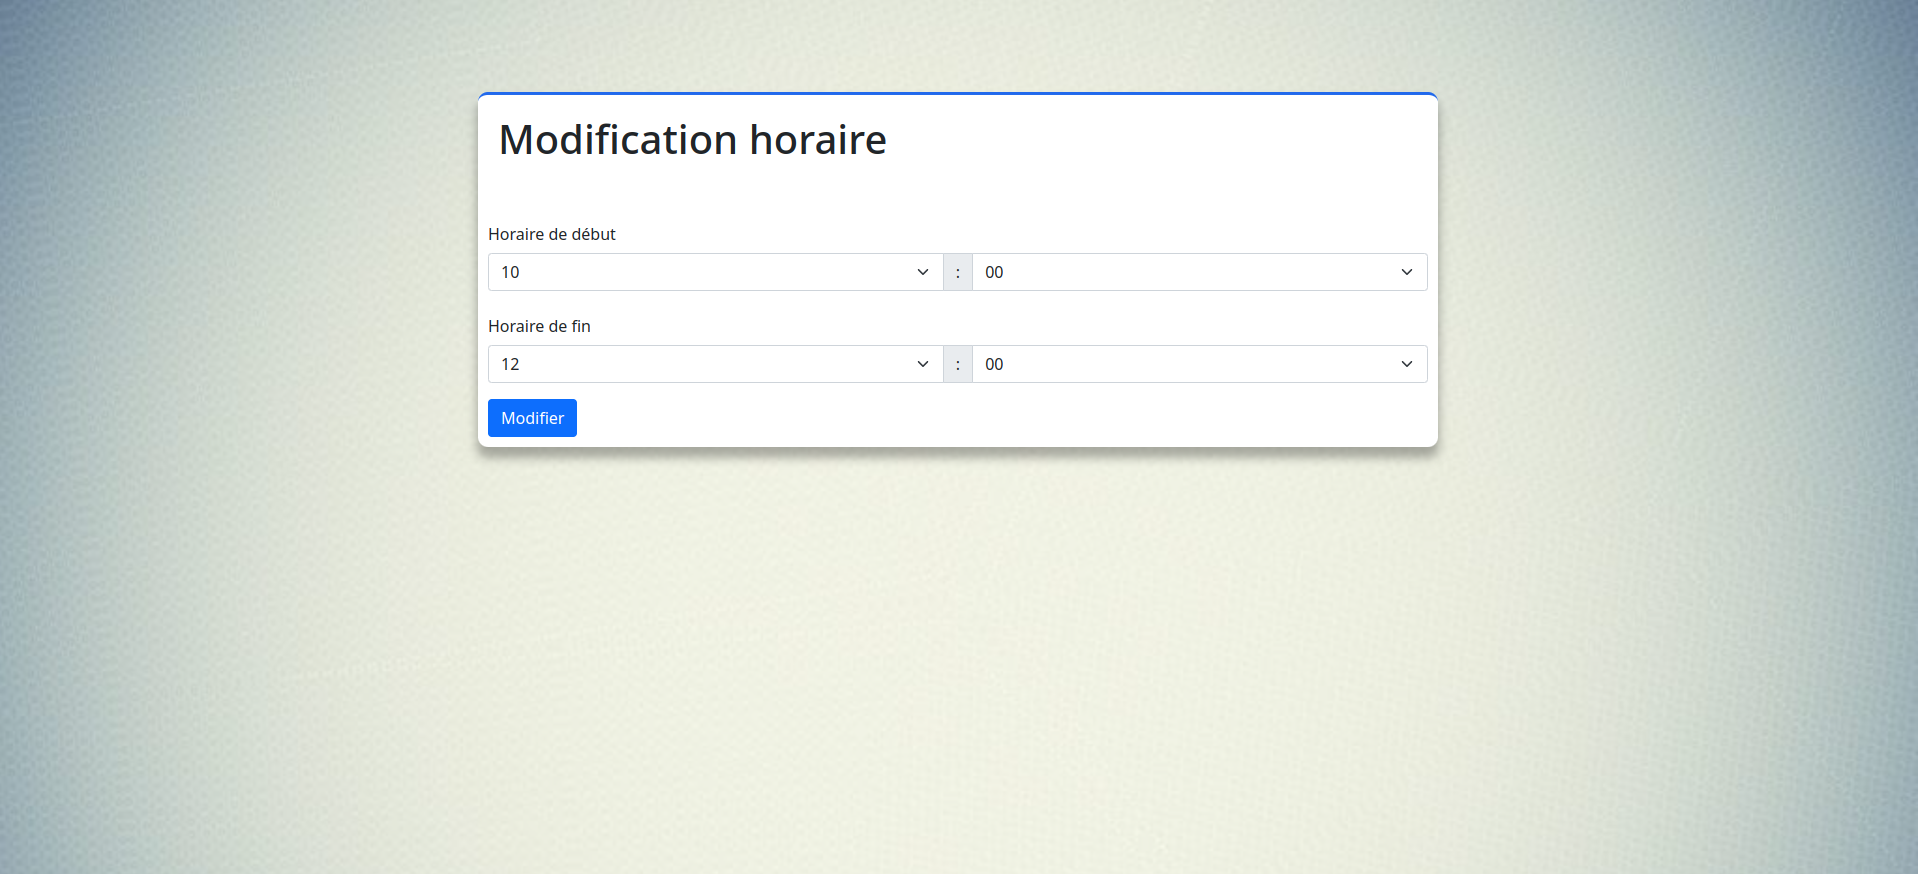
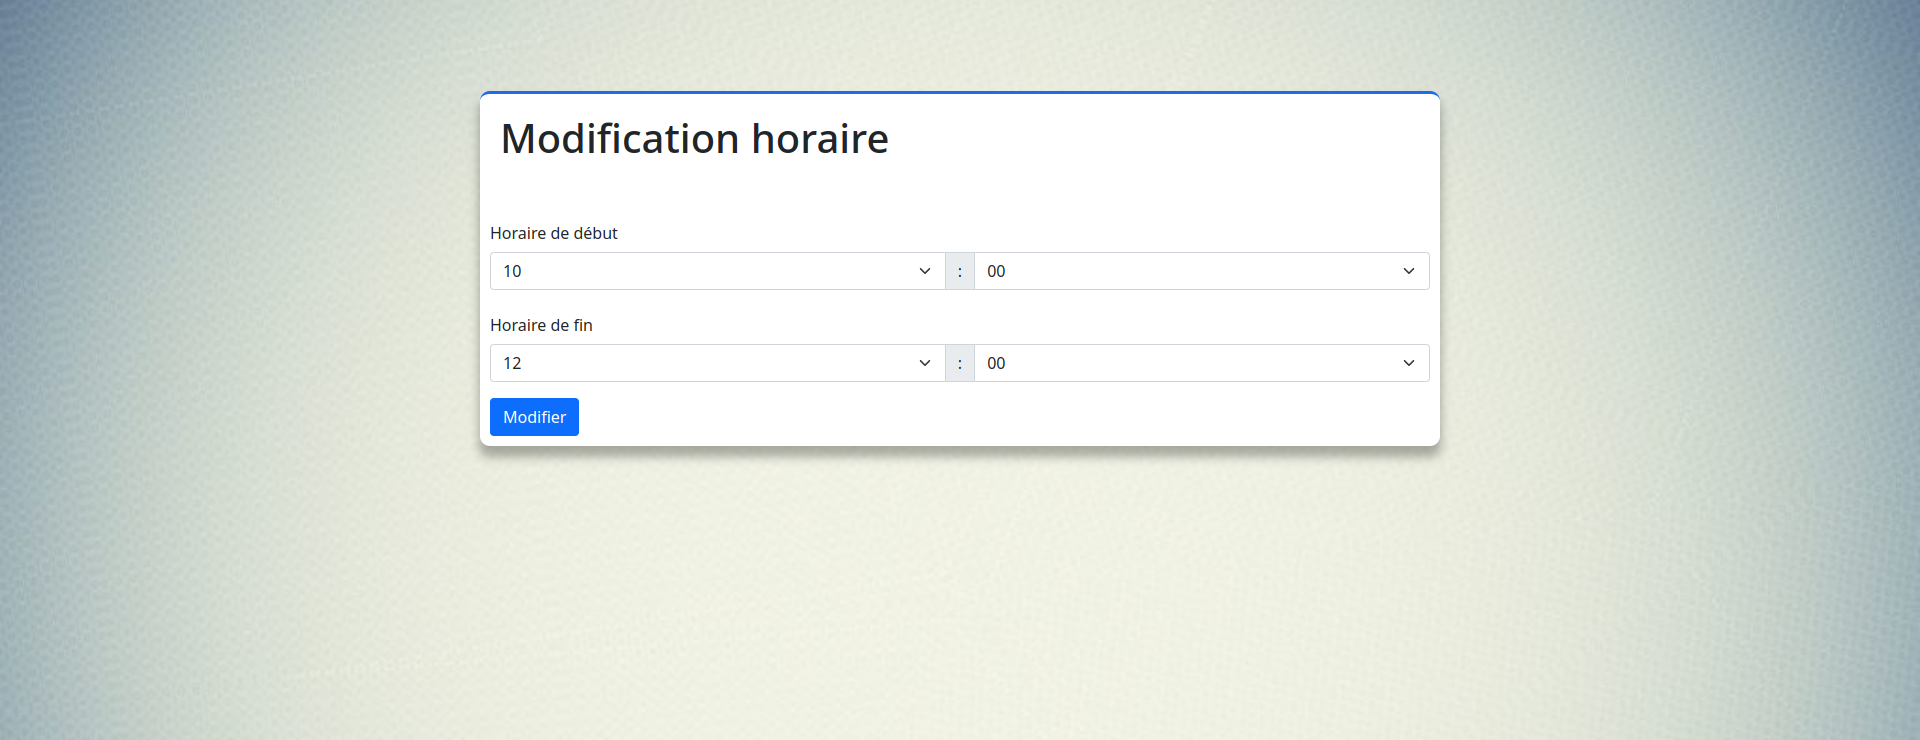
fin séance'

Changed region(s): [[0.2461, 0.2486, 0.769, 0.6216], [0.2461, 0.0932, 0.769, 0.2176], [0.4922, 0.2797, 0.5229, 0.4351]]

diff --git a/public/css/tuto.css b/public/css/tuto.css
@@ -184,7 +184,7 @@ li{
     font-size: large;
 }
 img.tuto{
-    width: 1150px;
+    width: 1200px;
     height: 550px;
 }
 div.img{
